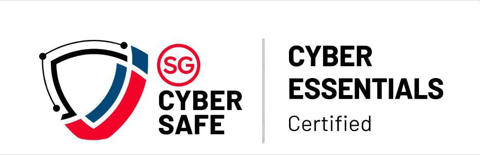
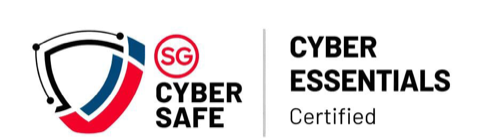
Footer: tighter Cyber Essentials badge spacing, remove edge lines
- Re-crop the badge image so the faint grey lines at its top and
  bottom edges are gone (480x138)
- Card is now 40px tall like the Shopify/Exabytes badges, with a 20px
  gap below them instead of the footer column's 50px

diff --git a/ui-ux-design.html b/ui-ux-design.html
@@ -1116,8 +1116,8 @@
                             alt="Digimarketing certification badge" class="w-[100%] !max-w-[120px] !h-[40px]" />
                     </div>
 
-                    <a href="https://www.digimarketing.sg/blog/wp-content/uploads/2026/09/SGS_Cyber-Essentials-Mark_SG2600000050_EN.pdf" target="_blank" rel="noopener" style="display:block;width:fit-content;background:#fff;border-radius:12px;padding:8px 14px;line-height:0" title="View our Cyber Essentials Mark certificate">
-                        <img loading="lazy" decoding="async" src="assets/images/cyber-essentials-badge.png" alt="SG Cyber Safe Cyber Essentials certified" width="480" height="155" style="display:block;height:44px;width:auto;max-width:none">
+                    <a href="https://www.digimarketing.sg/blog/wp-content/uploads/2026/09/SGS_Cyber-Essentials-Mark_SG2600000050_EN.pdf" target="_blank" rel="noopener" style="display:block;width:fit-content;background:#fff;border-radius:8px;padding:4px 12px;line-height:0;margin-top:-30px" title="View our Cyber Essentials Mark certificate">
+                        <img loading="lazy" decoding="async" src="assets/images/cyber-essentials-badge.png" alt="SG Cyber Safe Cyber Essentials certified" width="480" height="138" style="display:block;height:32px;width:auto;max-width:none">
                     </a>
 
                     <ul class="flex items-center gap-[16px]">

diff --git a/about-us.html b/about-us.html
@@ -1327,8 +1327,8 @@
                             alt="Digimarketing certification badge" class="w-[100%] !max-w-[120px] !h-[40px]" />
                     </div>
 
-                    <a href="https://www.digimarketing.sg/blog/wp-content/uploads/2026/09/SGS_Cyber-Essentials-Mark_SG2600000050_EN.pdf" target="_blank" rel="noopener" style="display:block;width:fit-content;background:#fff;border-radius:12px;padding:8px 14px;line-height:0" title="View our Cyber Essentials Mark certificate">
-                        <img loading="lazy" decoding="async" src="assets/images/cyber-essentials-badge.png" alt="SG Cyber Safe Cyber Essentials certified" width="480" height="155" style="display:block;height:44px;width:auto;max-width:none">
+                    <a href="https://www.digimarketing.sg/blog/wp-content/uploads/2026/09/SGS_Cyber-Essentials-Mark_SG2600000050_EN.pdf" target="_blank" rel="noopener" style="display:block;width:fit-content;background:#fff;border-radius:8px;padding:4px 12px;line-height:0;margin-top:-30px" title="View our Cyber Essentials Mark certificate">
+                        <img loading="lazy" decoding="async" src="assets/images/cyber-essentials-badge.png" alt="SG Cyber Safe Cyber Essentials certified" width="480" height="138" style="display:block;height:32px;width:auto;max-width:none">
                     </a>
 
 

diff --git a/crm-system copy.html b/crm-system copy.html
@@ -1183,8 +1183,8 @@
                             alt="Digimarketing certification badge" class="w-[100%] !max-w-[120px] !h-[40px]" />
                     </div>
 
-                    <a href="https://www.digimarketing.sg/blog/wp-content/uploads/2026/09/SGS_Cyber-Essentials-Mark_SG2600000050_EN.pdf" target="_blank" rel="noopener" style="display:block;width:fit-content;background:#fff;border-radius:12px;padding:8px 14px;line-height:0" title="View our Cyber Essentials Mark certificate">
-                        <img loading="lazy" decoding="async" src="assets/images/cyber-essentials-badge.png" alt="SG Cyber Safe Cyber Essentials certified" width="480" height="155" style="display:block;height:44px;width:auto;max-width:none">
+                    <a href="https://www.digimarketing.sg/blog/wp-content/uploads/2026/09/SGS_Cyber-Essentials-Mark_SG2600000050_EN.pdf" target="_blank" rel="noopener" style="display:block;width:fit-content;background:#fff;border-radius:8px;padding:4px 12px;line-height:0;margin-top:-30px" title="View our Cyber Essentials Mark certificate">
+                        <img loading="lazy" decoding="async" src="assets/images/cyber-essentials-badge.png" alt="SG Cyber Safe Cyber Essentials certified" width="480" height="138" style="display:block;height:32px;width:auto;max-width:none">
                     </a>
 
 

diff --git a/crm-system.html b/crm-system.html
@@ -1094,8 +1094,8 @@
                             alt="Digimarketing certification badge" class="w-[100%] !max-w-[120px] !h-[40px]" />
                     </div>
 
-                    <a href="https://www.digimarketing.sg/blog/wp-content/uploads/2026/09/SGS_Cyber-Essentials-Mark_SG2600000050_EN.pdf" target="_blank" rel="noopener" style="display:block;width:fit-content;background:#fff;border-radius:12px;padding:8px 14px;line-height:0" title="View our Cyber Essentials Mark certificate">
-                        <img loading="lazy" decoding="async" src="assets/images/cyber-essentials-badge.png" alt="SG Cyber Safe Cyber Essentials certified" width="480" height="155" style="display:block;height:44px;width:auto;max-width:none">
+                    <a href="https://www.digimarketing.sg/blog/wp-content/uploads/2026/09/SGS_Cyber-Essentials-Mark_SG2600000050_EN.pdf" target="_blank" rel="noopener" style="display:block;width:fit-content;background:#fff;border-radius:8px;padding:4px 12px;line-height:0;margin-top:-30px" title="View our Cyber Essentials Mark certificate">
+                        <img loading="lazy" decoding="async" src="assets/images/cyber-essentials-badge.png" alt="SG Cyber Safe Cyber Essentials certified" width="480" height="138" style="display:block;height:32px;width:auto;max-width:none">
                     </a>
 
 

diff --git a/digiai-marketing.html b/digiai-marketing.html
@@ -1405,8 +1405,8 @@
                             alt="Digimarketing certification badge" class="w-[100%] !max-w-[120px] !h-[40px]" />
                     </div>
 
-                    <a href="https://www.digimarketing.sg/blog/wp-content/uploads/2026/09/SGS_Cyber-Essentials-Mark_SG2600000050_EN.pdf" target="_blank" rel="noopener" style="display:block;width:fit-content;background:#fff;border-radius:12px;padding:8px 14px;line-height:0" title="View our Cyber Essentials Mark certificate">
-                        <img loading="lazy" decoding="async" src="assets/images/cyber-essentials-badge.png" alt="SG Cyber Safe Cyber Essentials certified" width="480" height="155" style="display:block;height:44px;width:auto;max-width:none">
+                    <a href="https://www.digimarketing.sg/blog/wp-content/uploads/2026/09/SGS_Cyber-Essentials-Mark_SG2600000050_EN.pdf" target="_blank" rel="noopener" style="display:block;width:fit-content;background:#fff;border-radius:8px;padding:4px 12px;line-height:0;margin-top:-30px" title="View our Cyber Essentials Mark certificate">
+                        <img loading="lazy" decoding="async" src="assets/images/cyber-essentials-badge.png" alt="SG Cyber Safe Cyber Essentials certified" width="480" height="138" style="display:block;height:32px;width:auto;max-width:none">
                     </a>
 
 

diff --git a/edge-grant-for-e-commerce-solution.html b/edge-grant-for-e-commerce-solution.html
@@ -1799,8 +1799,8 @@
                             alt="Digimarketing certification badge" class="w-[100%] !max-w-[120px] !h-[40px]" />
                     </div>
 
-                    <a href="https://www.digimarketing.sg/blog/wp-content/uploads/2026/09/SGS_Cyber-Essentials-Mark_SG2600000050_EN.pdf" target="_blank" rel="noopener" style="display:block;width:fit-content;background:#fff;border-radius:12px;padding:8px 14px;line-height:0" title="View our Cyber Essentials Mark certificate">
-                        <img loading="lazy" decoding="async" src="assets/images/cyber-essentials-badge.png" alt="SG Cyber Safe Cyber Essentials certified" width="480" height="155" style="display:block;height:44px;width:auto;max-width:none">
+                    <a href="https://www.digimarketing.sg/blog/wp-content/uploads/2026/09/SGS_Cyber-Essentials-Mark_SG2600000050_EN.pdf" target="_blank" rel="noopener" style="display:block;width:fit-content;background:#fff;border-radius:8px;padding:4px 12px;line-height:0;margin-top:-30px" title="View our Cyber Essentials Mark certificate">
+                        <img loading="lazy" decoding="async" src="assets/images/cyber-essentials-badge.png" alt="SG Cyber Safe Cyber Essentials certified" width="480" height="138" style="display:block;height:32px;width:auto;max-width:none">
                     </a>
 
 

diff --git a/index.html b/index.html
@@ -1465,8 +1465,8 @@
                             alt="Digimarketing certification badge" class="w-[100%] !max-w-[120px] !h-[40px]" />
                     </div>
 
-                    <a href="https://www.digimarketing.sg/blog/wp-content/uploads/2026/09/SGS_Cyber-Essentials-Mark_SG2600000050_EN.pdf" target="_blank" rel="noopener" style="display:block;width:fit-content;background:#fff;border-radius:12px;padding:8px 14px;line-height:0" title="View our Cyber Essentials Mark certificate">
-                        <img loading="lazy" decoding="async" src="assets/images/cyber-essentials-badge.png" alt="SG Cyber Safe Cyber Essentials certified" width="480" height="155" style="display:block;height:44px;width:auto;max-width:none">
+                    <a href="https://www.digimarketing.sg/blog/wp-content/uploads/2026/09/SGS_Cyber-Essentials-Mark_SG2600000050_EN.pdf" target="_blank" rel="noopener" style="display:block;width:fit-content;background:#fff;border-radius:8px;padding:4px 12px;line-height:0;margin-top:-30px" title="View our Cyber Essentials Mark certificate">
+                        <img loading="lazy" decoding="async" src="assets/images/cyber-essentials-badge.png" alt="SG Cyber Safe Cyber Essentials certified" width="480" height="138" style="display:block;height:32px;width:auto;max-width:none">
                     </a>
 
 

diff --git a/ppc-management-agency.html b/ppc-management-agency.html
@@ -1357,8 +1357,8 @@
                             alt="Digimarketing certification badge" class="w-[100%] !max-w-[120px] !h-[40px]" />
                     </div>
 
-                    <a href="https://www.digimarketing.sg/blog/wp-content/uploads/2026/09/SGS_Cyber-Essentials-Mark_SG2600000050_EN.pdf" target="_blank" rel="noopener" style="display:block;width:fit-content;background:#fff;border-radius:12px;padding:8px 14px;line-height:0" title="View our Cyber Essentials Mark certificate">
-                        <img loading="lazy" decoding="async" src="assets/images/cyber-essentials-badge.png" alt="SG Cyber Safe Cyber Essentials certified" width="480" height="155" style="display:block;height:44px;width:auto;max-width:none">
+                    <a href="https://www.digimarketing.sg/blog/wp-content/uploads/2026/09/SGS_Cyber-Essentials-Mark_SG2600000050_EN.pdf" target="_blank" rel="noopener" style="display:block;width:fit-content;background:#fff;border-radius:8px;padding:4px 12px;line-height:0;margin-top:-30px" title="View our Cyber Essentials Mark certificate">
+                        <img loading="lazy" decoding="async" src="assets/images/cyber-essentials-badge.png" alt="SG Cyber Safe Cyber Essentials certified" width="480" height="138" style="display:block;height:32px;width:auto;max-width:none">
                     </a>
 
 

diff --git a/psg-grant-for-e-commerce-solution.html b/psg-grant-for-e-commerce-solution.html
@@ -1727,8 +1727,8 @@
                             alt="Digimarketing certification badge" class="w-[100%] !max-w-[120px] !h-[40px]" />
                     </div>
 
-                    <a href="https://www.digimarketing.sg/blog/wp-content/uploads/2026/09/SGS_Cyber-Essentials-Mark_SG2600000050_EN.pdf" target="_blank" rel="noopener" style="display:block;width:fit-content;background:#fff;border-radius:12px;padding:8px 14px;line-height:0" title="View our Cyber Essentials Mark certificate">
-                        <img loading="lazy" decoding="async" src="assets/images/cyber-essentials-badge.png" alt="SG Cyber Safe Cyber Essentials certified" width="480" height="155" style="display:block;height:44px;width:auto;max-width:none">
+                    <a href="https://www.digimarketing.sg/blog/wp-content/uploads/2026/09/SGS_Cyber-Essentials-Mark_SG2600000050_EN.pdf" target="_blank" rel="noopener" style="display:block;width:fit-content;background:#fff;border-radius:8px;padding:4px 12px;line-height:0;margin-top:-30px" title="View our Cyber Essentials Mark certificate">
+                        <img loading="lazy" decoding="async" src="assets/images/cyber-essentials-badge.png" alt="SG Cyber Safe Cyber Essentials certified" width="480" height="138" style="display:block;height:32px;width:auto;max-width:none">
                     </a>
 
 

diff --git a/seo-optimization.html b/seo-optimization.html
@@ -1385,8 +1385,8 @@
                             alt="Digimarketing certification badge" class="w-[100%] !max-w-[120px] !h-[40px]" />
                     </div>
 
-                    <a href="https://www.digimarketing.sg/blog/wp-content/uploads/2026/09/SGS_Cyber-Essentials-Mark_SG2600000050_EN.pdf" target="_blank" rel="noopener" style="display:block;width:fit-content;background:#fff;border-radius:12px;padding:8px 14px;line-height:0" title="View our Cyber Essentials Mark certificate">
-                        <img loading="lazy" decoding="async" src="assets/images/cyber-essentials-badge.png" alt="SG Cyber Safe Cyber Essentials certified" width="480" height="155" style="display:block;height:44px;width:auto;max-width:none">
+                    <a href="https://www.digimarketing.sg/blog/wp-content/uploads/2026/09/SGS_Cyber-Essentials-Mark_SG2600000050_EN.pdf" target="_blank" rel="noopener" style="display:block;width:fit-content;background:#fff;border-radius:8px;padding:4px 12px;line-height:0;margin-top:-30px" title="View our Cyber Essentials Mark certificate">
+                        <img loading="lazy" decoding="async" src="assets/images/cyber-essentials-badge.png" alt="SG Cyber Safe Cyber Essentials certified" width="480" height="138" style="display:block;height:32px;width:auto;max-width:none">
                     </a>
 
 

diff --git a/shopify-store-migration-services.html b/shopify-store-migration-services.html
@@ -1088,8 +1088,8 @@
                             alt="Digimarketing certification badge" class="w-[100%] !max-w-[120px] !h-[40px]" />
                     </div>
 
-                    <a href="https://www.digimarketing.sg/blog/wp-content/uploads/2026/09/SGS_Cyber-Essentials-Mark_SG2600000050_EN.pdf" target="_blank" rel="noopener" style="display:block;width:fit-content;background:#fff;border-radius:12px;padding:8px 14px;line-height:0" title="View our Cyber Essentials Mark certificate">
-                        <img loading="lazy" decoding="async" src="assets/images/cyber-essentials-badge.png" alt="SG Cyber Safe Cyber Essentials certified" width="480" height="155" style="display:block;height:44px;width:auto;max-width:none">
+                    <a href="https://www.digimarketing.sg/blog/wp-content/uploads/2026/09/SGS_Cyber-Essentials-Mark_SG2600000050_EN.pdf" target="_blank" rel="noopener" style="display:block;width:fit-content;background:#fff;border-radius:8px;padding:4px 12px;line-height:0;margin-top:-30px" title="View our Cyber Essentials Mark certificate">
+                        <img loading="lazy" decoding="async" src="assets/images/cyber-essentials-badge.png" alt="SG Cyber Safe Cyber Essentials certified" width="480" height="138" style="display:block;height:32px;width:auto;max-width:none">
                     </a>
 
 

diff --git a/website-design.html b/website-design.html
@@ -1342,8 +1342,8 @@
                             alt="Digimarketing certification badge" class="w-[100%] !max-w-[120px] !h-[40px]" />
                     </div>
 
-                    <a href="https://www.digimarketing.sg/blog/wp-content/uploads/2026/09/SGS_Cyber-Essentials-Mark_SG2600000050_EN.pdf" target="_blank" rel="noopener" style="display:block;width:fit-content;background:#fff;border-radius:12px;padding:8px 14px;line-height:0" title="View our Cyber Essentials Mark certificate">
-                        <img loading="lazy" decoding="async" src="assets/images/cyber-essentials-badge.png" alt="SG Cyber Safe Cyber Essentials certified" width="480" height="155" style="display:block;height:44px;width:auto;max-width:none">
+                    <a href="https://www.digimarketing.sg/blog/wp-content/uploads/2026/09/SGS_Cyber-Essentials-Mark_SG2600000050_EN.pdf" target="_blank" rel="noopener" style="display:block;width:fit-content;background:#fff;border-radius:8px;padding:4px 12px;line-height:0;margin-top:-30px" title="View our Cyber Essentials Mark certificate">
+                        <img loading="lazy" decoding="async" src="assets/images/cyber-essentials-badge.png" alt="SG Cyber Safe Cyber Essentials certified" width="480" height="138" style="display:block;height:32px;width:auto;max-width:none">
                     </a>
 
 
